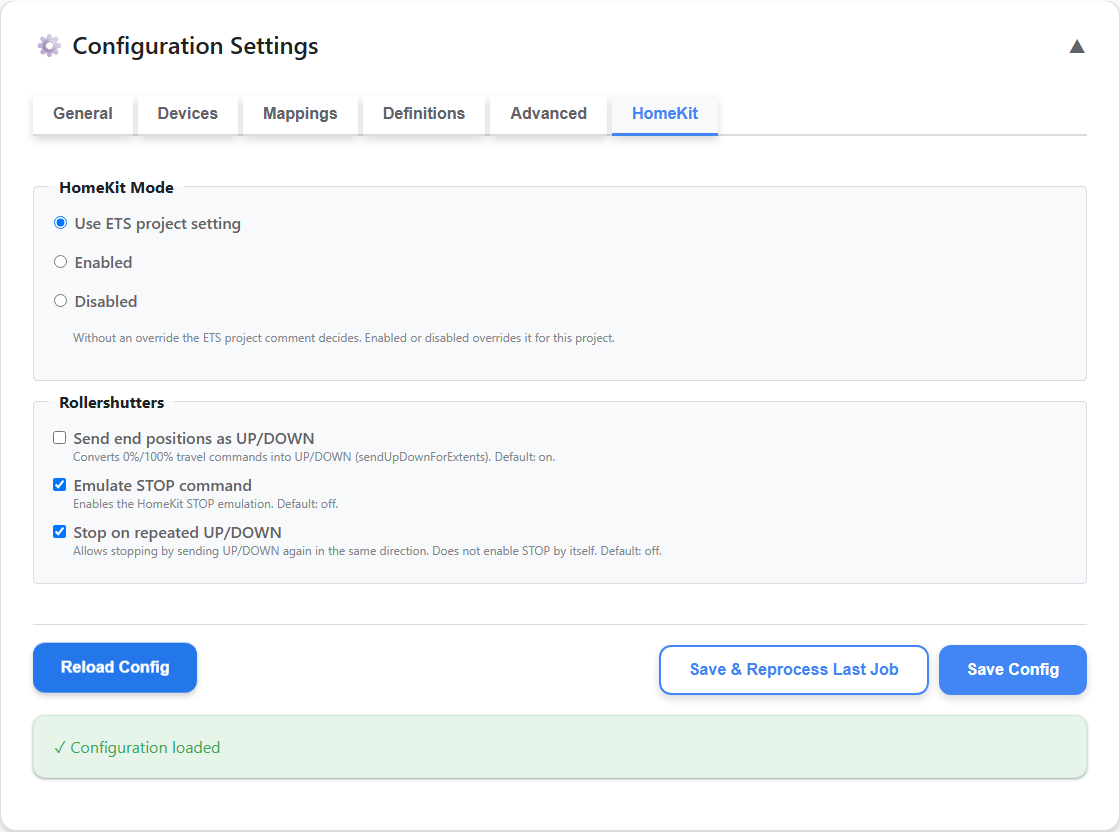
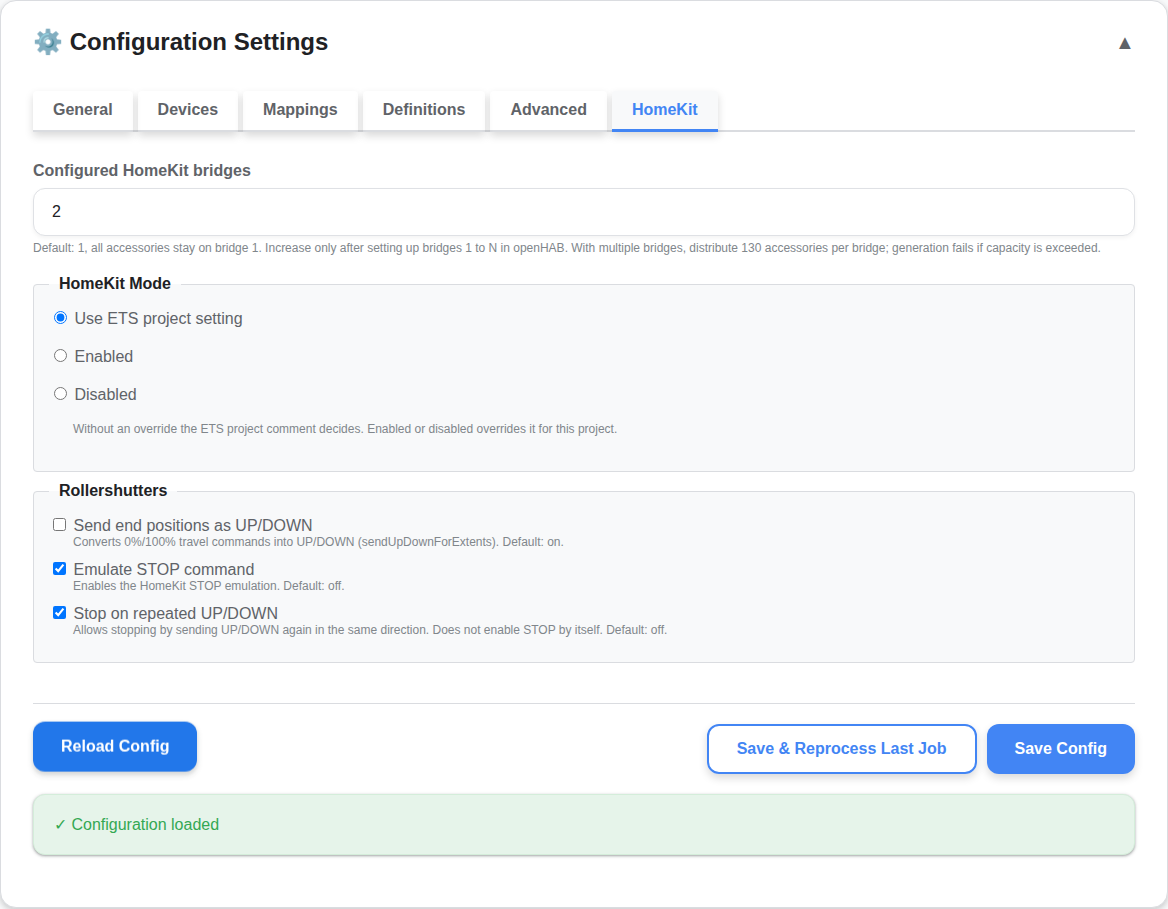
docs: capture verified HomeKit bridge settings

diff --git a/docs/HOMEKIT_BRIDGES.md b/docs/HOMEKIT_BRIDGES.md
@@ -70,6 +70,14 @@ Deployment den Export prüfen; Apple-Home-Räume und Automationen nachprüfen.
 Keine automatische Pairing-Löschung oder Änderung der Add-on-Konfiguration.
 Endlagen-, Lamellen- und Stop-Optionen bleiben eigenständig erhalten.
 
+## Oberfläche
+
+Der Screenshot zeigt den echten Flask-Testserver nach Speichern und Neuladen:
+zwei ausdrücklich konfigurierte Bridges, Endlagen aus und beide Stop-Optionen an.
+Er verwendet isolierte Testkonfiguration ohne persönliche Projektdaten.
+
+![HomeKit-Einstellungen mit Bridge-Anzahl und unabhängigen Rollladenoptionen](screenshots/homekit-settings.png)
+
 ## Noch offene Laufzeitprüfung
 
 Quellenanalyse und Exporttests belegen keine erfolgreiche reale Bridge-Zuordnung.
